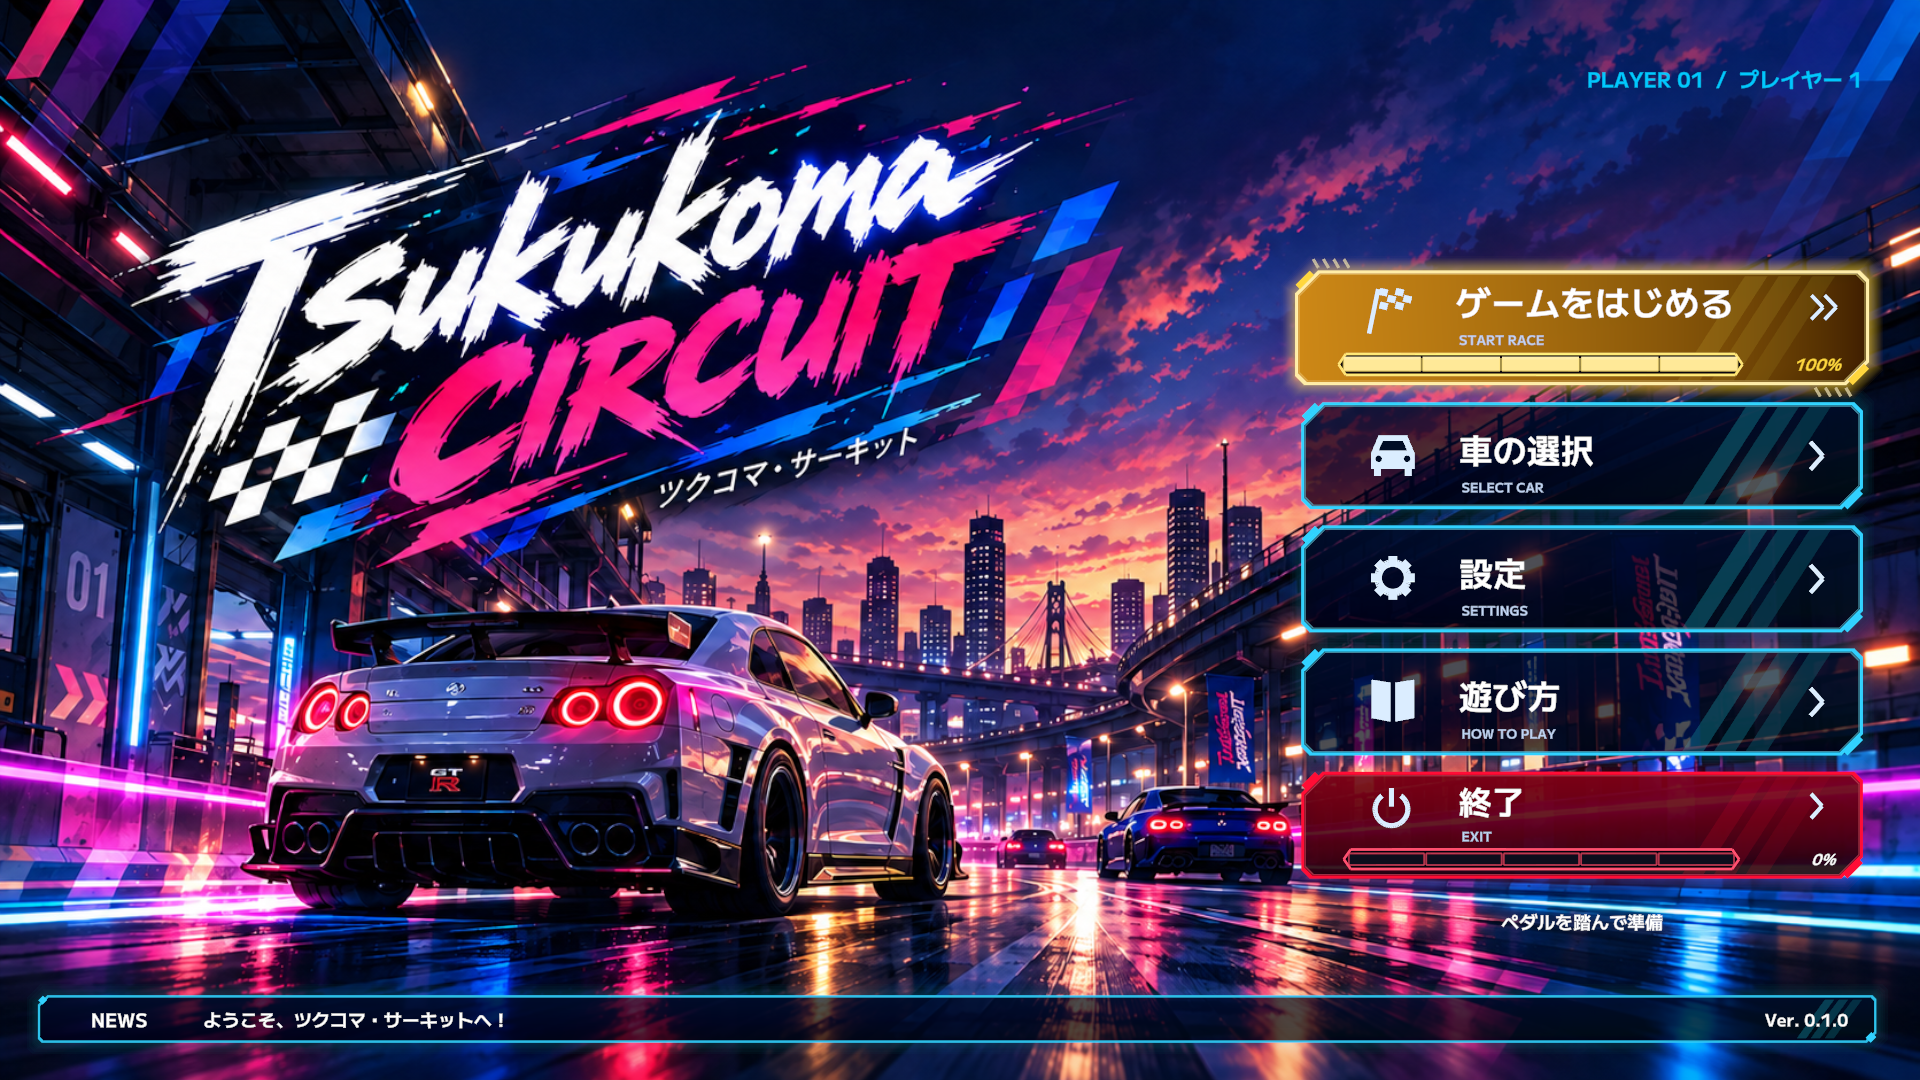
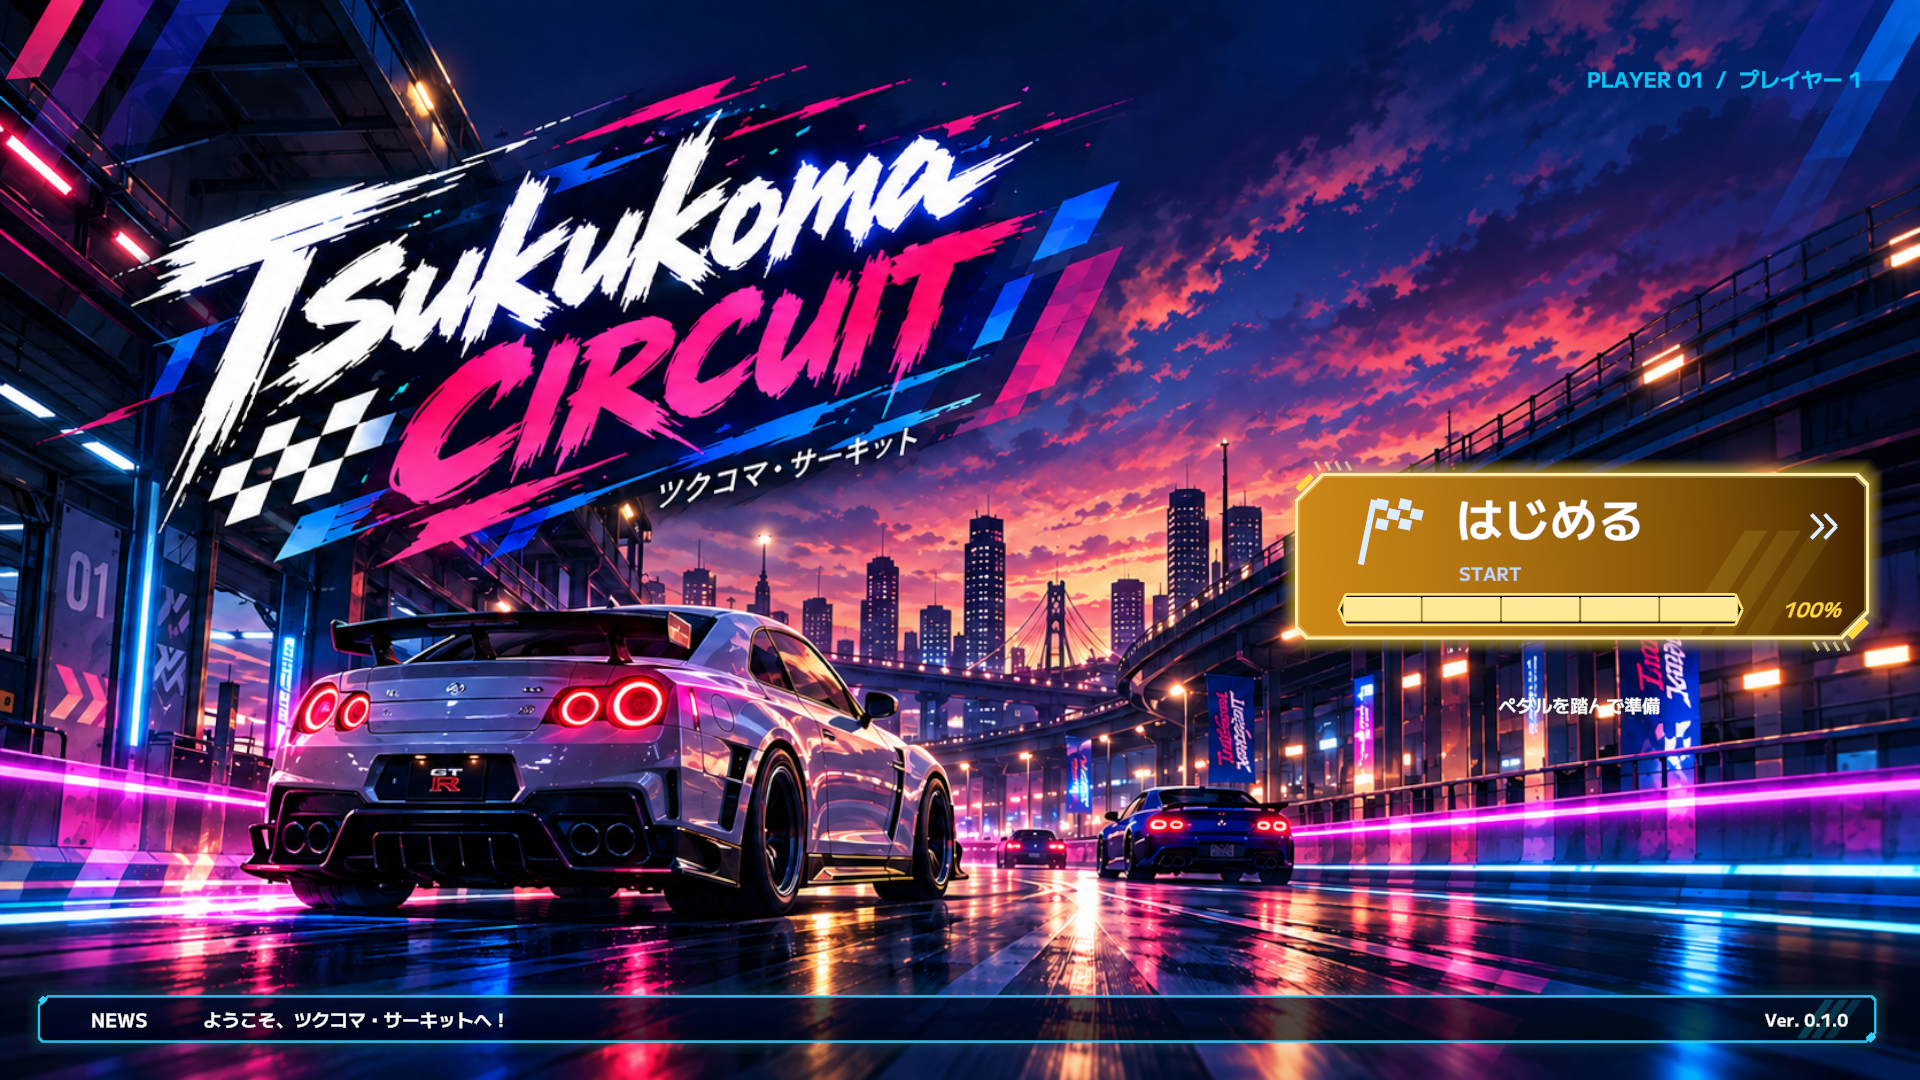
feat(ui): simplify title and result menus to essential actions

Changed region(s): [[0.6562, 0.2139, 1.0, 0.8861]]

diff --git a/Assets/Managers/UI/ScreenTransitionController.cs b/Assets/Managers/UI/ScreenTransitionController.cs
@@ -410,11 +410,11 @@ public sealed class ScreenTransitionController : MonoBehaviour
         NeonUI.Background(title, "TitleBackground", "UI/Neon/TitleBackground");
         TMP_Text playerBadge = NeonUI.Text(title, "PlayerBadge", $"PLAYER 0{displayPlayerIndex + 1}  /  プレイヤー {displayPlayerIndex + 1}",
             new Vector2(.69f,.90f), new Vector2(.97f,.955f), 21f, TextAlignmentOptions.Right, tint: NeonUI.Cyan);
-        BuildTitlePedalPanel(title, displayPlayerIndex, new Vector2(.678f,.645f), new Vector2(.970f,.748f), NeonUI.Pink);
-        NeonTitleMenu menu = title.GetComponent<NeonTitleMenu>() ?? title.gameObject.AddComponent<NeonTitleMenu>();
-        menu.Build(title, displayPlayerIndex);
+        foreach(Button legacy in title.GetComponentsInChildren<Button>(true)) legacy.gameObject.SetActive(false);
+        Transform oldSheet=title.Find("MenuSheet"); if(oldSheet!=null)oldSheet.gameObject.SetActive(false);
+        BuildTitlePedalPanel(title, displayPlayerIndex, new Vector2(.678f,.41f), new Vector2(.970f,.56f), NeonUI.Pink);
         titlePrompt = NeonUI.Text(title, "StartPrompt", promptText,
-            new Vector2(.678f,.12f), new Vector2(.970f,.174f), 18f, TextAlignmentOptions.Center);
+            new Vector2(.66f,.31f), new Vector2(.985f,.385f), 18f, TextAlignmentOptions.Center);
         RectTransform news = NeonUI.Panel(title, "News", new Vector2(.02f,.035f), new Vector2(.977f,.078f));
         NeonUI.Text(news,"Tag","NEWS",new Vector2(.018f,0),new Vector2(.07f,1),19f,TextAlignmentOptions.Center);
         NeonUI.Text(news,"Welcome","ようこそ、ツクコマ・サーキットへ！",new Vector2(.09f,0),new Vector2(.78f,1),18f);
@@ -506,14 +506,17 @@ public sealed class ScreenTransitionController : MonoBehaviour
 
     private void BuildTitlePedalPanel(Transform title, int playerIndex, Vector2 anchorMin, Vector2 anchorMax, Color accent)
     {
-        RacingMenuButton start = NeonUI.Button(title, $"Player{playerIndex + 1}Pedal", "ゲームをはじめる", "START RACE",
+        RacingMenuButton start = NeonUI.Button(title, $"Player{playerIndex + 1}Pedal", "はじめる", "START",
             RacingIconGraphic.Icon.Flag, anchorMin, anchorMax, true, () => Gmanager.Control?.ConfirmTitleStart(playerIndex));
         PedalButtonFeedback feedback = start.GetComponent<PedalButtonFeedback>() ?? start.gameObject.AddComponent<PedalButtonFeedback>();
         feedback.Configure(NeonUI.Pink);
         start.transform.Find("ModernSurface").gameObject.SetActive(false);
         Image hit = start.GetComponent<Image>(); hit.enabled = true; hit.color = Color.clear; hit.raycastTarget = true;
         start.Configure(start.transform.Find("ButtonSurface").GetComponent<RacingPanelGraphic>());
+        start.gameObject.SetActive(true);
         start.ConfigureHold(.65f, true);
+        start.transform.Find("Label").GetComponent<TMP_Text>().fontSizeMax=46f;
+        start.transform.Find("Caption").GetComponent<TMP_Text>().fontSizeMax=18f;
         titleButtonFeedback[playerIndex] = feedback;
     }
 

diff --git a/Assets/Managers/Gmanager.cs b/Assets/Managers/Gmanager.cs
@@ -1143,11 +1143,10 @@ public class Gmanager : MonoBehaviour
 
     public void SelectResultOption(int playerIndex, int option)
     {
-        if(state != State.Result || IsScreenTransitioning() || playerIndex < 0 || playerIndex >= PlayerCount || players[playerIndex].returnedToTitle) return;
+        if(option < 0 || option > 1 || state != State.Result || IsScreenTransitioning() || playerIndex < 0 || playerIndex >= PlayerCount || players[playerIndex].returnedToTitle) return;
         resultUIManagers[playerIndex]?.PlayConfirm(option);
         if(option == 0) { RetryGame(); return; }
-        NeonTitleMenu.Page? page = option == 1 ? NeonTitleMenu.Page.Cars : option == 2 ? NeonTitleMenu.Page.Course : (NeonTitleMenu.Page?)null;
-        ReturnPlayerToTitle(playerIndex, page);
+        ReturnPlayerToTitle(playerIndex);
     }
 
     private void UpdateResultReturnInput(float dt)
@@ -1164,7 +1163,7 @@ public class Gmanager : MonoBehaviour
             DriveInputState input = IManager.GetInputState(index);
             if (!player.resultSteeringLatch && Mathf.Abs(input.steering) >= resultSteeringThreshold)
             {
-                player.resultSelection = (player.resultSelection + (input.steering > 0f ? 1 : 3)) % 4;
+                player.resultSelection = 1 - player.resultSelection;
                 player.resultSteeringLatch = true;
                 player.resultConfirmTimer = 0f;
             }
@@ -1193,7 +1192,7 @@ public class Gmanager : MonoBehaviour
         }
     }
 
-    private void ReturnPlayerToTitle(int index, NeonTitleMenu.Page? page = null)
+    private void ReturnPlayerToTitle(int index)
     {
         PlayerRuntime player = players[index];
         Action covered = () =>
@@ -1207,8 +1206,6 @@ public class Gmanager : MonoBehaviour
         };
         Action completed = () =>
         {
-            if (page.HasValue)
-                player.displayRig.CanvasRoot.transform.Find("Title")?.GetComponent<NeonTitleMenu>()?.Open(page.Value);
             foreach (PlayerRuntime participant in players)
                 if (participant == null || !participant.returnedToTitle) return;
             // 両者が戻るまでは結果データともう一方の画面を保持します。
@@ -1258,8 +1255,6 @@ public class Gmanager : MonoBehaviour
             PlayerRuntime player = players[playerIndex];
             if (!player.isReady)
             {
-                NeonTitleMenu menu = player.displayRig.CanvasRoot.transform.Find("Title")?.GetComponent<NeonTitleMenu>();
-                if (menu != null && menu.IsOpen) { allReady = false; continue; }
                 DriveInputState input = IManager.GetInputState(playerIndex);
                 if (input.readyPressed)
                 {

diff --git a/Assets/Editor/MultiplayerPlayModeValidation.cs b/Assets/Editor/MultiplayerPlayModeValidation.cs
@@ -162,25 +162,13 @@ public static class MultiplayerPlayModeValidation
                     manager.SelectResultOption(1,1);
                     stage=9;
                     break;
-                case 9 when !AnyTransitionActive() && TitleSheet(1)?.IsOpen == true:
+                case 9 when !AnyTransitionActive() && FindComponentIncludingInactive<ScreenTransitionController>("GameManagers/MainCanvas_P2")?.transform.Find("Title").gameObject.activeSelf == true:
                     Require(manager.state == Gmanager.State.Result,"One player returning must preserve the other result.");
-                    manager.SelectResultOption(0,2);
-                    stage=10;
+                    manager.SelectResultOption(0,1);stage=10;
                     break;
                 case 10 when manager.state == Gmanager.State.Title && !AnyTransitionActive():
-                    Require(TitleSheet(0)?.IsOpen==true && TitleSheet(1)?.IsOpen==true,"Car/course return actions did not open their title sheets.");
-                    TitleSheet(0).Close();TitleSheet(1).Close();
-                    manager.DebugPreviewResult();stage=11;
-                    break;
-                case 11 when manager.state == Gmanager.State.Result && !AnyTransitionActive():
-                    manager.SelectResultOption(0,3);stage=12;
-                    break;
-                case 12 when !AnyTransitionActive():
-                    manager.SelectResultOption(1,3);stage=13;
-                    break;
-                case 13 when manager.state == Gmanager.State.Title && !AnyTransitionActive():
-                    Require(TitleSheet(0)?.IsOpen==false && TitleSheet(1)?.IsOpen==false,"Main-menu action must return to the main menu.");
-                    Debug.Log("MULTIPLAYER_PLAYMODE_VALIDATION_PASS: race, spectator, shared result, retry, car/course sheets and main menu.");
+                    Require(FindComponentIncludingInactive<RacingMenuButton>("GameManagers/MainCanvas/Title/Player1Pedal")!=null,"Main-menu return failed.");
+                    Debug.Log("MULTIPLAYER_PLAYMODE_VALIDATION_PASS: race, spectator, shared result, retry and two main-menu returns.");
                     Finish(0);
                     break;
             }
@@ -207,7 +195,6 @@ public static class MultiplayerPlayModeValidation
             if(transition.IsTransitioning)return true;
         return false;
     }
-    private static NeonTitleMenu TitleSheet(int player)=>FindComponentIncludingInactive<NeonTitleMenu>(player==0?"GameManagers/MainCanvas/Title":"GameManagers/MainCanvas_P2/Title");
 
     private static void ValidateDisplayAndTitle()
     {

diff --git a/Assets/Editor/ModernUIValidation.cs b/Assets/Editor/ModernUIValidation.cs
@@ -180,17 +180,7 @@ public static class ModernUIValidation
         Require(start.IsActive() && start.targetGraphic.enabled && start.targetGraphic.raycastTarget,"Title start has no active pointer hit target.");
         foreach(RacingMenuButton button in title.GetComponentsInChildren<RacingMenuButton>(true))
             Require(button.targetGraphic.enabled && button.targetGraphic.raycastTarget,"Menu control has no pointer hit target: "+button.name);
-        NeonTitleMenu menu=title.GetComponent<NeonTitleMenu>();
-        float volume=AudioListener.volume;
-        try
-        {
-            menu.Build(title,1);menu.Open(NeonTitleMenu.Page.Settings);
-            AudioListener.volume=.65f;
-            title.Find("MenuSheet/Card/Action").GetComponent<RacingMenuButton>().onClick.Invoke();
-            Require(AudioListener.volume==0f,"Settings action did not toggle sound exactly once.");
-            menu.Close();Require(!menu.IsOpen,"Title sheet did not close.");
-        }
-        finally { AudioListener.volume=volume; }
+        Require(title.GetComponentsInChildren<RacingMenuButton>(false).Length==1 && Text(start.transform,"Label")=="はじめる","Title must expose only はじめる.");
         ResultUIManager results=new ResultUIManager();results.Init(result,2);
         RaceSessionResult session=new RaceSessionResult();
         session.SetPlayerResult(0,new RaceResultRecord{playerNumber=1,finishPosition=1,totalRaceTime=40});
@@ -198,7 +188,8 @@ public static class ModernUIValidation
         results.ShowResults(session);
         Transform card=result.Find("ResultPresentation/ResultCard");
         Require(Text(card,"ResultRow2/Gap")=="+2.125" && Text(card,"PlacementRibbon/Ordinal")=="2ND","Result times and local medal do not match real data.");
-        Require(card.Find("ResultMenu").childCount==4,"Result must have four actions.");
+        Require(card.Find("ResultMenu").GetComponentsInChildren<RacingMenuButton>(false).Length==2,"Result must have two actions.");
+        Require(Text(card,"ResultMenu/Option1/Label")=="もう一度" && Text(card,"ResultMenu/Option2/Label")=="メインメニュー","Result action labels are wrong.");
         foreach(RacingMenuButton button in card.Find("ResultMenu").GetComponentsInChildren<RacingMenuButton>(true))
             Require(button.targetGraphic.enabled && button.targetGraphic.raycastTarget,"Result action has no pointer hit target.");
         session.GetPlayerResult(1).didFinish=false;results.ShowResults(session);

diff --git a/Assets/Managers/UI/ResultUIManager.cs b/Assets/Managers/UI/ResultUIManager.cs
@@ -2,7 +2,7 @@ using TMPro;
 using UnityEngine;
 using UnityEngine.UI;
 
-/// <summary>Neon classification, local-driver medal and four functional result actions.</summary>
+/// <summary>Neon classification, local-driver medal and two functional result actions.</summary>
 public class ResultUIManager
 {
     private RaceResultRecord currentResult;
@@ -82,16 +82,18 @@ public class ResultUIManager
     }
     private void BuildMenu(Transform parent)
     {
-        RectTransform menu=RacingUITheme.Rect(parent,"ResultMenu",new Vector2(.03f,.048f),new Vector2(.97f,.14f));
-        string[] labels={"もう一度レースする","車の選択に戻る","コース選択に戻る","メインメニューへ"};
-        string[] english={"RACE AGAIN","SELECT CAR","SELECT COURSE","MAIN MENU"};
-        RacingIconGraphic.Icon[] icons={RacingIconGraphic.Icon.Retry,RacingIconGraphic.Icon.Car,RacingIconGraphic.Icon.Course,RacingIconGraphic.Icon.Home};
-        RectTransform[] buttons=new RectTransform[4];
-        for(int i=0;i<4;i++)
+        RectTransform menu=RacingUITheme.Rect(parent,"ResultMenu",new Vector2(.22f,.048f),new Vector2(.78f,.14f));
+        foreach(string name in new[]{"Option3","Option4"})
+        {Transform stale=menu.Find(name);if(stale!=null)Object.DestroyImmediate(stale.gameObject);}
+        string[] labels={"もう一度","メインメニュー"};
+        string[] english={"RACE AGAIN","MAIN MENU"};
+        RacingIconGraphic.Icon[] icons={RacingIconGraphic.Icon.Retry,RacingIconGraphic.Icon.Home};
+        RectTransform[] buttons=new RectTransform[2];
+        for(int i=0;i<2;i++)
         {
             int option=i;
             RacingMenuButton button=NeonUI.Button(menu,"Option"+(i+1),labels[i],english[i],icons[i],
-                new Vector2(i*.252f,0),new Vector2(i*.252f+.240f,1),i==0,()=>Gmanager.Control?.SelectResultOption(localPlayerNumber-1,option));
+                new Vector2(i*.525f,0),new Vector2(i*.525f+.475f,1),i==0,()=>Gmanager.Control?.SelectResultOption(localPlayerNumber-1,option));
             buttons[i]=button.GetComponent<RectTransform>();
             button.transform.Find("Label").GetComponent<TMP_Text>().fontSizeMax=28f;
         }
